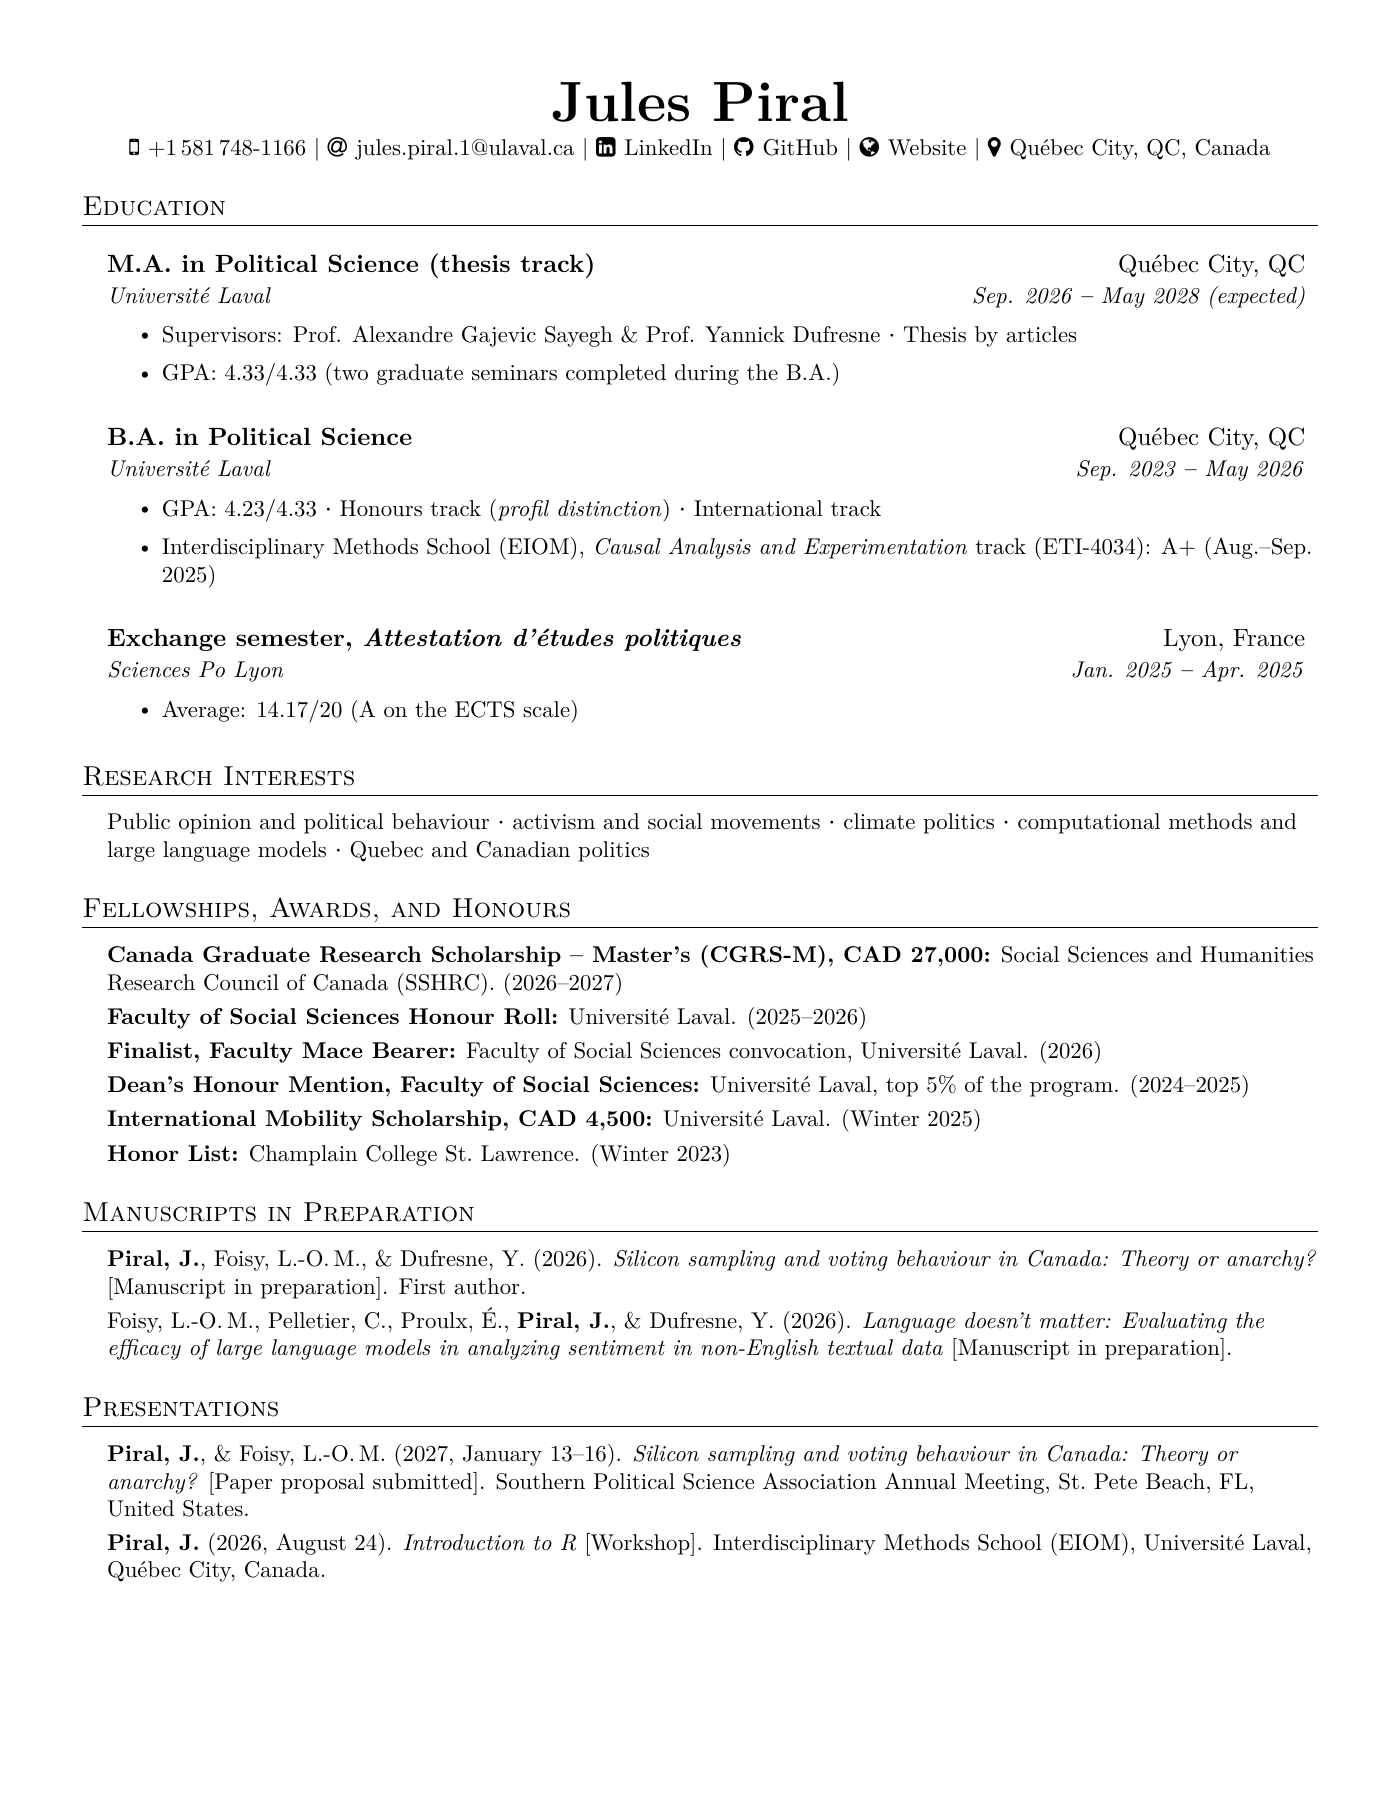
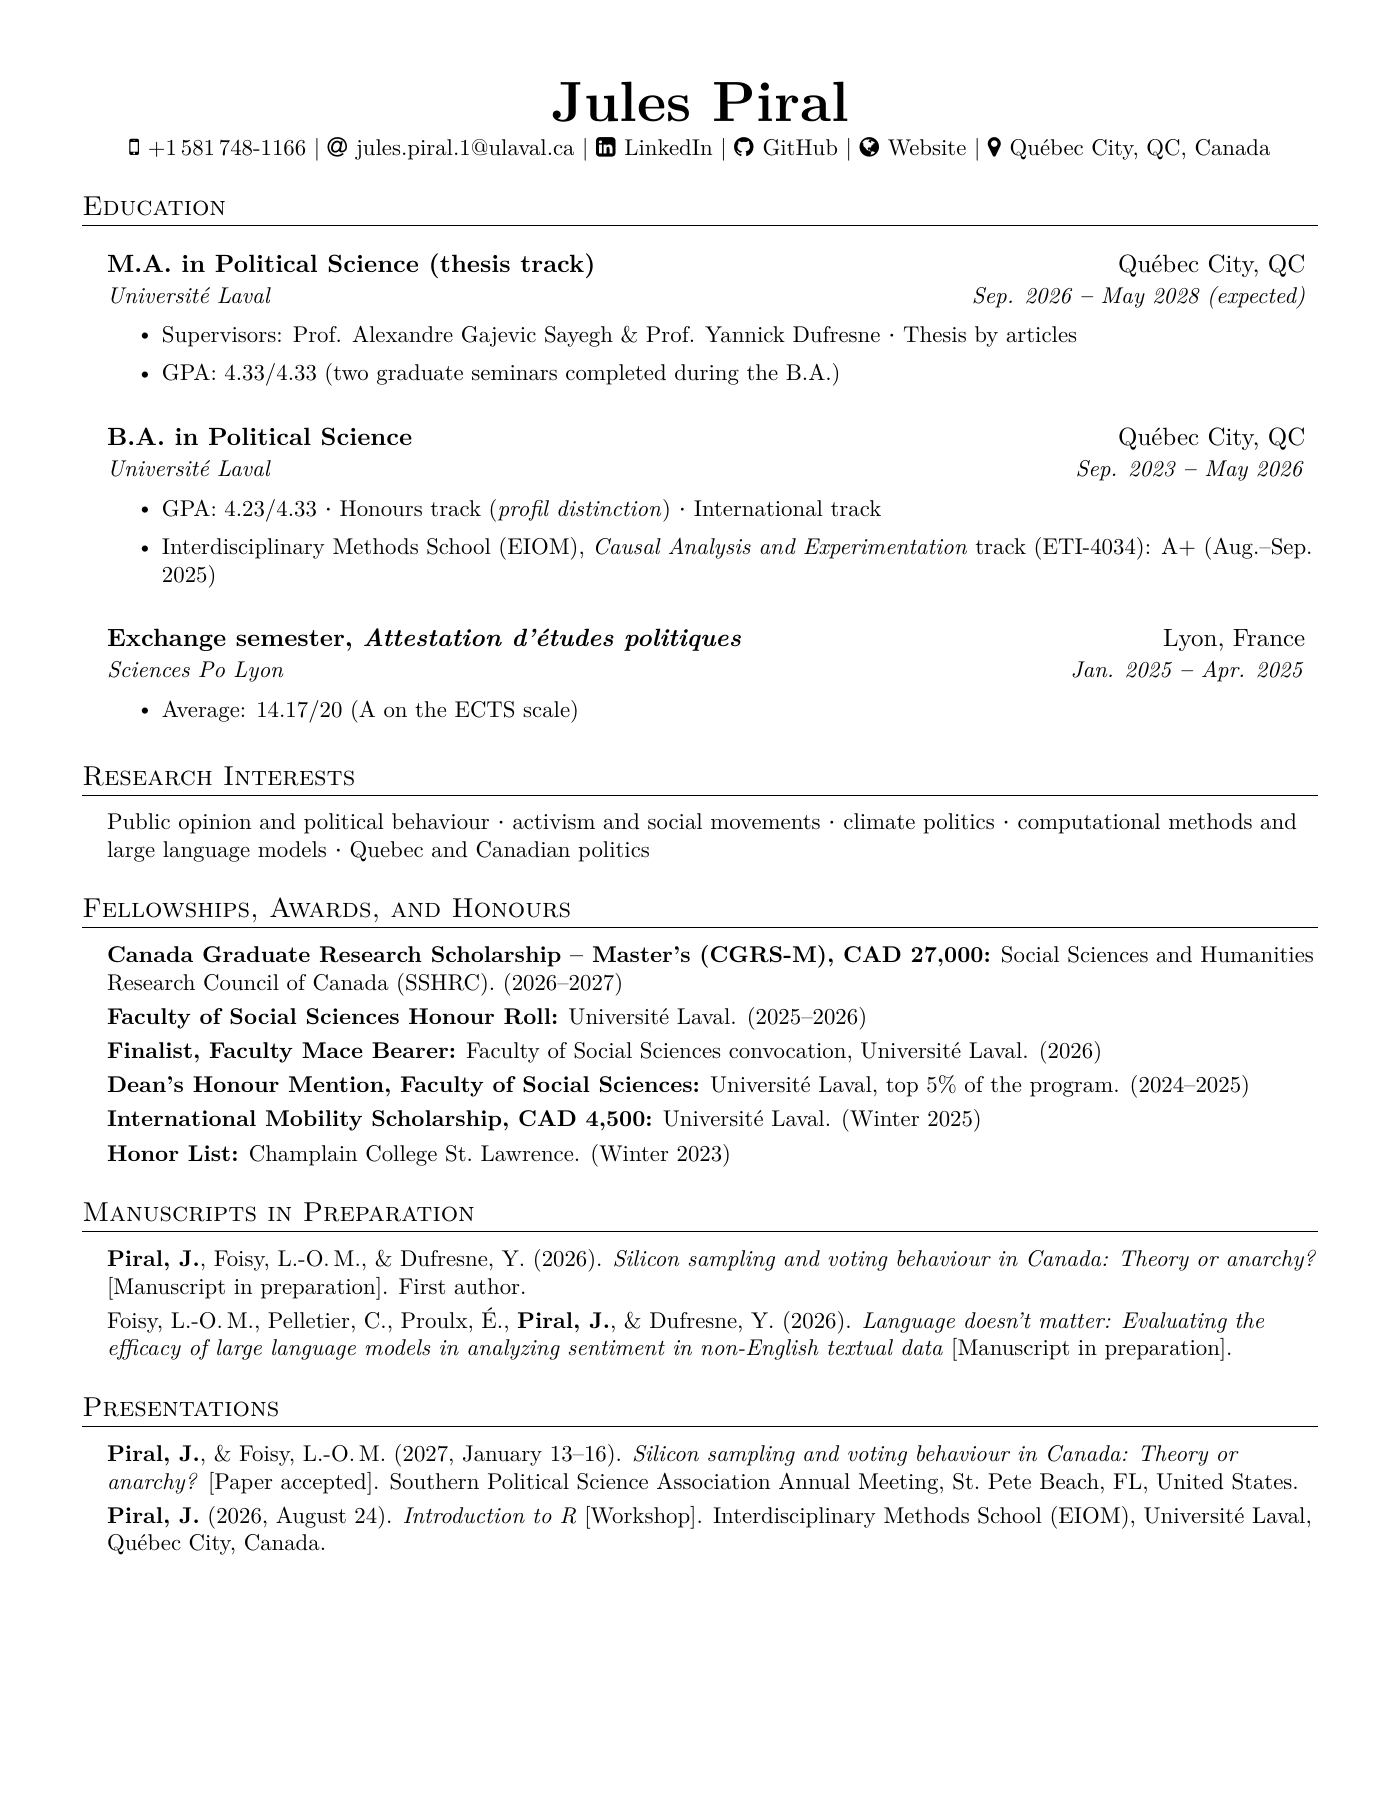
SPSA 2027 paper accepted: update home, research page and CVs

Changed region(s): [[0.0614, 0.8035, 0.9214, 0.8653]]

diff --git a/content/fr/research.md b/content/fr/research.md
@@ -20,7 +20,7 @@ description: Thèmes de recherche, manuscrits et expérience de recherche de Jul
 ## Communications
 
 <ul class="refs">
-<li><strong>Piral, J.</strong> et Foisy, L.-O. M. (2027, 13–16 janvier). <em>Silicon sampling and voting behaviour in Canada: Theory or anarchy?</em> [Proposition de communication soumise]. Congrès annuel de la Southern Political Science Association, St. Pete Beach, Floride, États-Unis.</li>
+<li><strong>Piral, J.</strong> et Foisy, L.-O. M. (2027, 13–16 janvier). <em>Silicon sampling and voting behaviour in Canada: Theory or anarchy?</em> [Communication acceptée]. Congrès annuel de la Southern Political Science Association, St. Pete Beach, Floride, États-Unis.</li>
 <li><strong>Piral, J.</strong> (2026, 24 août). <em>Introduction à R</em> [Atelier]. École interdisciplinaire outils et méthodes (EIOM), Université Laval, Québec, Canada.</li>
 </ul>
 

diff --git a/content/en/research.md b/content/en/research.md
@@ -19,7 +19,7 @@ description: Research interests, manuscripts, and research positions of Jules Pi
 ## Presentations
 
 <ul class="refs">
-<li><strong>Piral, J.</strong>, &amp; Foisy, L.-O. M. (2027, January 13–16). <em>Silicon sampling and voting behaviour in Canada: Theory or anarchy?</em> [Paper proposal submitted]. Southern Political Science Association Annual Meeting, St. Pete Beach, FL, United States.</li>
+<li><strong>Piral, J.</strong>, &amp; Foisy, L.-O. M. (2027, January 13–16). <em>Silicon sampling and voting behaviour in Canada: Theory or anarchy?</em> [Paper accepted]. Southern Political Science Association Annual Meeting, St. Pete Beach, FL, United States.</li>
 <li><strong>Piral, J.</strong> (2026, August 24). <em>Introduction to R</em> [Workshop]. Interdisciplinary Methods School (EIOM), Université Laval, Québec City, Canada.</li>
 </ul>
 

diff --git a/content/fr/_index.md b/content/fr/_index.md
@@ -11,4 +11,4 @@ Mes recherches se situent à la rencontre de l'opinion publique, de l'activisme 
 
 - Je coordonne le panel de répondants du CAPP et je conçois des sondages pour le projet [Datagotchi](https://www.datagotchi.com/).
 - Je développe des outils d'analyse textuelle automatisée pour la [Vitrine démocratique](https://vitrinedemocratique.com), un tableau de bord public sur la politique québécoise.
-- Je rédige un article sur le *silicon sampling* (les grands modèles de langage peuvent-ils simuler l'électorat canadien ?), soumis au congrès de la Southern Political Science Association de janvier 2027.
+- Je rédige un article sur le *silicon sampling* (les grands modèles de langage peuvent-ils simuler l'électorat canadien ?), accepté au congrès de la Southern Political Science Association de janvier 2027.

diff --git a/content/en/_index.md b/content/en/_index.md
@@ -11,4 +11,4 @@ My research sits at the intersection of public opinion, activism and climate pol
 
 - Coordinating the CAPP online panel and designing surveys for the [Datagotchi](https://www.datagotchi.com/) project.
 - Building automated text-analysis tools for the [Vitrine démocratique](https://vitrinedemocratique.com), a public dashboard on Quebec politics.
-- Writing a paper on *silicon sampling* (can LLMs simulate Canadian voters?), submitted for presentation at the Southern Political Science Association meeting in January 2027.
+- Writing a paper on *silicon sampling* (can LLMs simulate Canadian voters?), accepted for presentation at the Southern Political Science Association meeting in January 2027.
